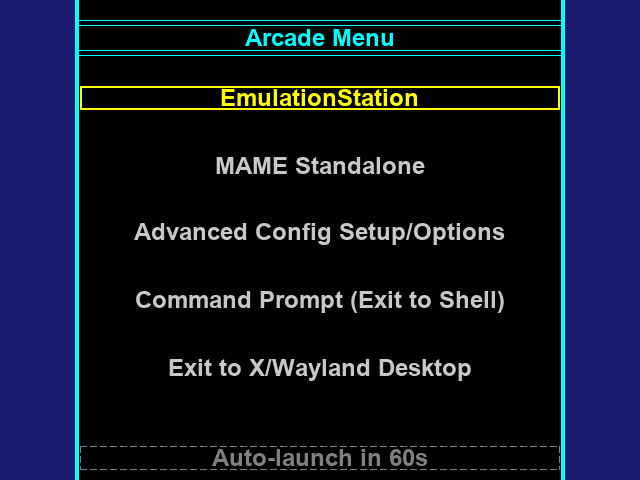
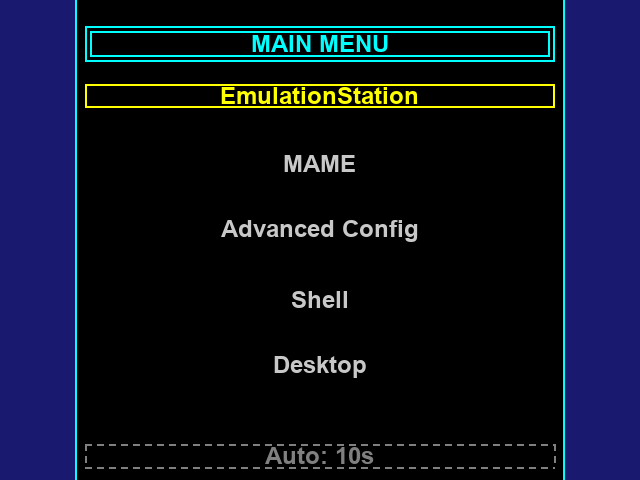
[Claude/me] more gui tweaks

diff --git a/McAtariPi5/home/danc/scripts/pic_frontend.py b/McAtariPi5/home/danc/scripts/pic_frontend.py
@@ -134,8 +134,8 @@ UNSEL_ITEM_RGB = (200, 200, 200)              # no exact pygame named color
 MENU_W    = 490   # menu surface width in pixels
 MENU_H    = 490   # menu surface height in pixels
 FONT_SZ   = 36    # system font point size
-BORDER_SZ      = 2   # outline width for the selection rectangle and timer dotted rect
-MENU_BORDER_SZ = 4   # outline width for the cyan border around the entire menu surface
+BORDER_PX = 2     # line thickness for all outline draws (menu border, selection rectangle, title borders)
+BORDER_SZ = 10    # gap in pixels between the menu border and any inner rectangle (title borders, selection rectangle, timer dotted rect)
 
 MENU_BG_COLOR     = BLACK_RGB      # menu surface background fill
 SCREEN_BG_COLOR   = DK_BLUE_RGB   # screen background fill (visible behind centered menu surface)
@@ -311,10 +311,10 @@ def panel_menu():
         title = font.render("Panel Image", True, CYAN_RGB)
         title_rect = title.get_rect(center=(240, 40))
         base_surface.blit(title, title_rect)
-        # title border (inner): full-width cyan rect, 4px padding above and below title text
-        pygame.draw.rect(base_surface, CYAN_RGB, pygame.Rect(0, title_rect.top - 4, full_w, title_rect.height + 8), 1)
-        # title border (outer): full-width cyan rect, 9px padding above and below title text (5px outside inner border)
-        pygame.draw.rect(base_surface, CYAN_RGB, pygame.Rect(0, title_rect.top - 9, full_w, title_rect.height + 18), 1)
+        # title border (inner): cyan rect, inset BORDER_SZ+5 horizontally and 4px vertically from title text
+        pygame.draw.rect(base_surface, CYAN_RGB, pygame.Rect(BORDER_SZ + 5, title_rect.top - 4, full_w - 2*(BORDER_SZ + 5), title_rect.height + 8), BORDER_PX)
+        # title border (outer): cyan rect, inset BORDER_SZ horizontally and 9px vertically from title text
+        pygame.draw.rect(base_surface, CYAN_RGB, pygame.Rect(BORDER_SZ, title_rect.top - 9, full_w - 2*BORDER_SZ, title_rect.height + 18), BORDER_PX)
         for i, (label, code) in enumerate(options):
             color = SELECT_RECT_COLOR if i == idx else UNSEL_ITEM_RGB
             # menu item: centered at x=240; y starts at 120 with 70px fixed spacing between items
@@ -322,11 +322,11 @@ def panel_menu():
             text_rect = text.get_rect(center=(240, 120 + i*70))
             base_surface.blit(text, text_rect)
             if i == idx:
-                # selection rectangle: yellow outline, inset 5px from surface edges, 3px padding above/below item text
-                pygame.draw.rect(base_surface, SELECT_RECT_COLOR, pygame.Rect(5, text_rect.top - 3, full_w - 10, text_rect.height + 6), BORDER_SZ)
+                # selection rectangle: yellow outline, inset BORDER_SZ from surface edges, 3px padding above/below item text
+                pygame.draw.rect(base_surface, SELECT_RECT_COLOR, pygame.Rect(BORDER_SZ, text_rect.top - 3, full_w - 2*BORDER_SZ, text_rect.height + 6), BORDER_PX)
         # menu border: cyan outline drawn at the inner edge of the menu surface
         # (negative coords are clipped by pygame, so draw at (0,0) not (-3,-3))
-        pygame.draw.rect(base_surface, CYAN_RGB, pygame.Rect(0, 0, full_w, full_h), MENU_BORDER_SZ)
+        pygame.draw.rect(base_surface, CYAN_RGB, pygame.Rect(0, 0, full_w, full_h), BORDER_PX)
         if screen_horizontal:
             screen.fill(SCREEN_BG_COLOR)  # screen background: dark blue, fills the entire display
             # blit menu surface centered on screen: offset = (screen_size - MENU_W/H) // 2 per axis
@@ -376,10 +376,10 @@ def advanced_menu():
         title = font.render("Advanced Config", True, CYAN_RGB)
         title_rect = title.get_rect(center=(240, 40))
         base_surface.blit(title, title_rect)
-        # title border (inner): full-width cyan rect, 4px padding above and below title text
-        pygame.draw.rect(base_surface, CYAN_RGB, pygame.Rect(0, title_rect.top - 4, full_w, title_rect.height + 8), 1)
-        # title border (outer): full-width cyan rect, 9px padding above and below title text (5px outside inner border)
-        pygame.draw.rect(base_surface, CYAN_RGB, pygame.Rect(0, title_rect.top - 9, full_w, title_rect.height + 18), 1)
+        # title border (inner): cyan rect, inset BORDER_SZ+5 horizontally and 4px vertically from title text
+        pygame.draw.rect(base_surface, CYAN_RGB, pygame.Rect(BORDER_SZ + 5, title_rect.top - 4, full_w - 2*(BORDER_SZ + 5), title_rect.height + 8), BORDER_PX)
+        # title border (outer): cyan rect, inset BORDER_SZ horizontally and 9px vertically from title text
+        pygame.draw.rect(base_surface, CYAN_RGB, pygame.Rect(BORDER_SZ, title_rect.top - 9, full_w - 2*BORDER_SZ, title_rect.height + 18), BORDER_PX)
         item_count = len(MENU_ITEMS)
         start_y = 100  # y-coordinate of the first menu item on the menu surface
         # spacing: distributes items evenly from start_y to 40px above the bottom of the menu surface
@@ -400,11 +400,11 @@ def advanced_menu():
             text_rect = text.get_rect(center=(240, start_y + i*spacing))
             base_surface.blit(text, text_rect)
             if i == selected:
-                # selection rectangle: yellow outline, inset 5px from surface edges, 3px padding above/below item text
-                pygame.draw.rect(base_surface, SELECT_RECT_COLOR, pygame.Rect(5, text_rect.top - 3, full_w - 10, text_rect.height + 6), BORDER_SZ)
+                # selection rectangle: yellow outline, inset BORDER_SZ from surface edges, 3px padding above/below item text
+                pygame.draw.rect(base_surface, SELECT_RECT_COLOR, pygame.Rect(BORDER_SZ, text_rect.top - 3, full_w - 2*BORDER_SZ, text_rect.height + 6), BORDER_PX)
         # menu border: cyan outline drawn at the inner edge of the menu surface
         # (negative coords are clipped by pygame, so draw at (0,0) not (-3,-3))
-        pygame.draw.rect(base_surface, CYAN_RGB, pygame.Rect(0, 0, full_w, full_h), MENU_BORDER_SZ)
+        pygame.draw.rect(base_surface, CYAN_RGB, pygame.Rect(0, 0, full_w, full_h), BORDER_PX)
         if screen_horizontal:
             screen.fill(SCREEN_BG_COLOR)  # screen background: dark blue, fills the entire display
             # blit menu surface centered on screen: offset = (screen_size - MENU_W/H) // 2 per axis
@@ -481,10 +481,10 @@ def main_menu():
         title = font.render("Arcade Menu", True, CYAN_RGB)
         title_rect = title.get_rect(center=(240, 40))
         base_surface.blit(title, title_rect)
-        # title border (inner): full-width cyan rect, 4px padding above and below title text
-        pygame.draw.rect(base_surface, CYAN_RGB, pygame.Rect(0, title_rect.top - 4, full_w, title_rect.height + 8), 1)
-        # title border (outer): full-width cyan rect, 9px padding above and below title text (5px outside inner border)
-        pygame.draw.rect(base_surface, CYAN_RGB, pygame.Rect(0, title_rect.top - 9, full_w, title_rect.height + 18), 1)
+        # title border (inner): cyan rect, inset BORDER_SZ+5 horizontally and 4px vertically from title text
+        pygame.draw.rect(base_surface, CYAN_RGB, pygame.Rect(BORDER_SZ + 5, title_rect.top - 4, full_w - 2*(BORDER_SZ + 5), title_rect.height + 8), BORDER_PX)
+        # title border (outer): cyan rect, inset BORDER_SZ horizontally and 9px vertically from title text
+        pygame.draw.rect(base_surface, CYAN_RGB, pygame.Rect(BORDER_SZ, title_rect.top - 9, full_w - 2*BORDER_SZ, title_rect.height + 18), BORDER_PX)
         item_count = len(MENU_ITEMS)
         start_y = 100  # y-coordinate of the first menu item on the menu surface
         # spacing: distributes items evenly from start_y to 40px above the bottom of the menu surface
@@ -496,17 +496,17 @@ def main_menu():
             text_rect = text.get_rect(center=(240, start_y + i*spacing))
             base_surface.blit(text, text_rect)
             if i == selected:
-                # selection rectangle: yellow outline, inset 5px from surface edges, 3px padding above/below item text
-                pygame.draw.rect(base_surface, SELECT_RECT_COLOR, pygame.Rect(5, text_rect.top - 3, full_w - 10, text_rect.height + 6), BORDER_SZ)
+                # selection rectangle: yellow outline, inset BORDER_SZ from surface edges, 3px padding above/below item text
+                pygame.draw.rect(base_surface, SELECT_RECT_COLOR, pygame.Rect(BORDER_SZ, text_rect.top - 3, full_w - 2*BORDER_SZ, text_rect.height + 6), BORDER_PX)
         # timer text: gray countdown label, centered at (x=240, y=460) near the bottom of the menu surface
         timer_text = font.render(f"Auto-launch in {countdown}s", True, LT_GRAY_RGB)
         timer_rect = timer_text.get_rect(center=(240, 460))
         base_surface.blit(timer_text, timer_rect)
-        # timer dotted rectangle: gray dashed outline, same inset as the selection rectangle (5px, full-width minus 10px)
-        _draw_dotted_rect(base_surface, LT_GRAY_RGB, pygame.Rect(5, timer_rect.top - 3, full_w - 10, timer_rect.height + 6))
+        # timer dotted rectangle: gray dashed outline, inset BORDER_SZ from surface edges
+        _draw_dotted_rect(base_surface, LT_GRAY_RGB, pygame.Rect(BORDER_SZ, timer_rect.top - 3, full_w - 2*BORDER_SZ, timer_rect.height + 6))
         # menu border: cyan outline drawn at the inner edge of the menu surface
         # (negative coords are clipped by pygame, so draw at (0,0) not (-3,-3))
-        pygame.draw.rect(base_surface, CYAN_RGB, pygame.Rect(0, 0, full_w, full_h), MENU_BORDER_SZ)
+        pygame.draw.rect(base_surface, CYAN_RGB, pygame.Rect(0, 0, full_w, full_h), BORDER_PX)
         if screen_horizontal:
             screen.fill(SCREEN_BG_COLOR)  # screen background: dark blue, fills the entire display
             # blit menu surface centered on screen: offset = (screen_size - MENU_W/H) // 2 per axis
